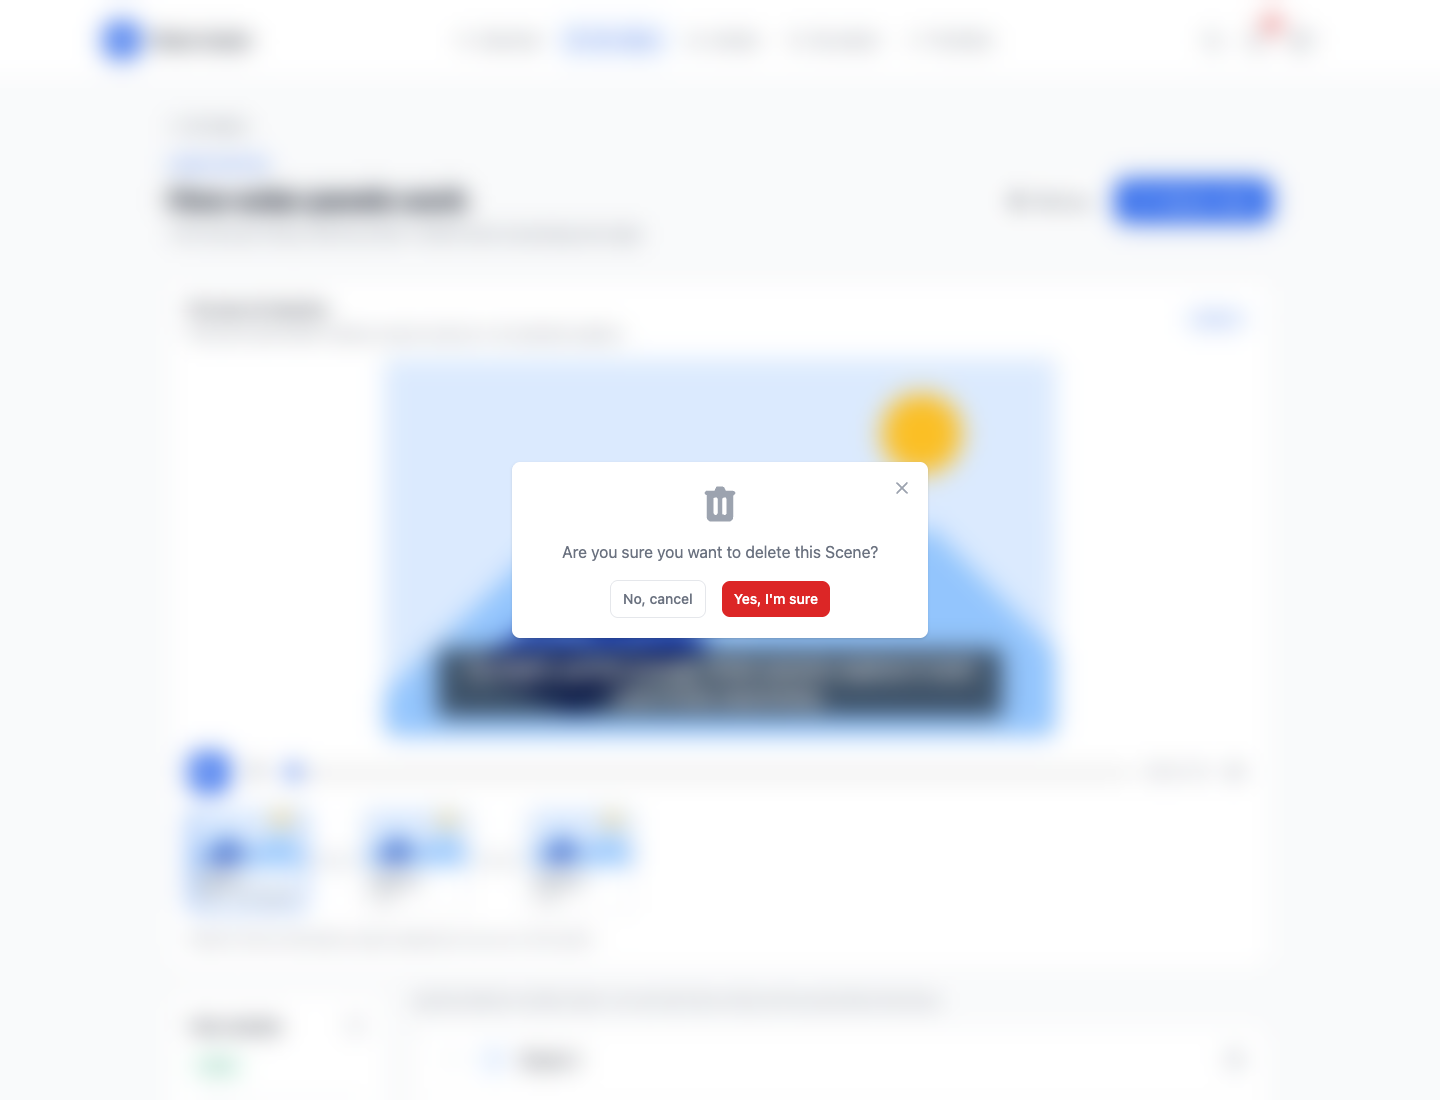
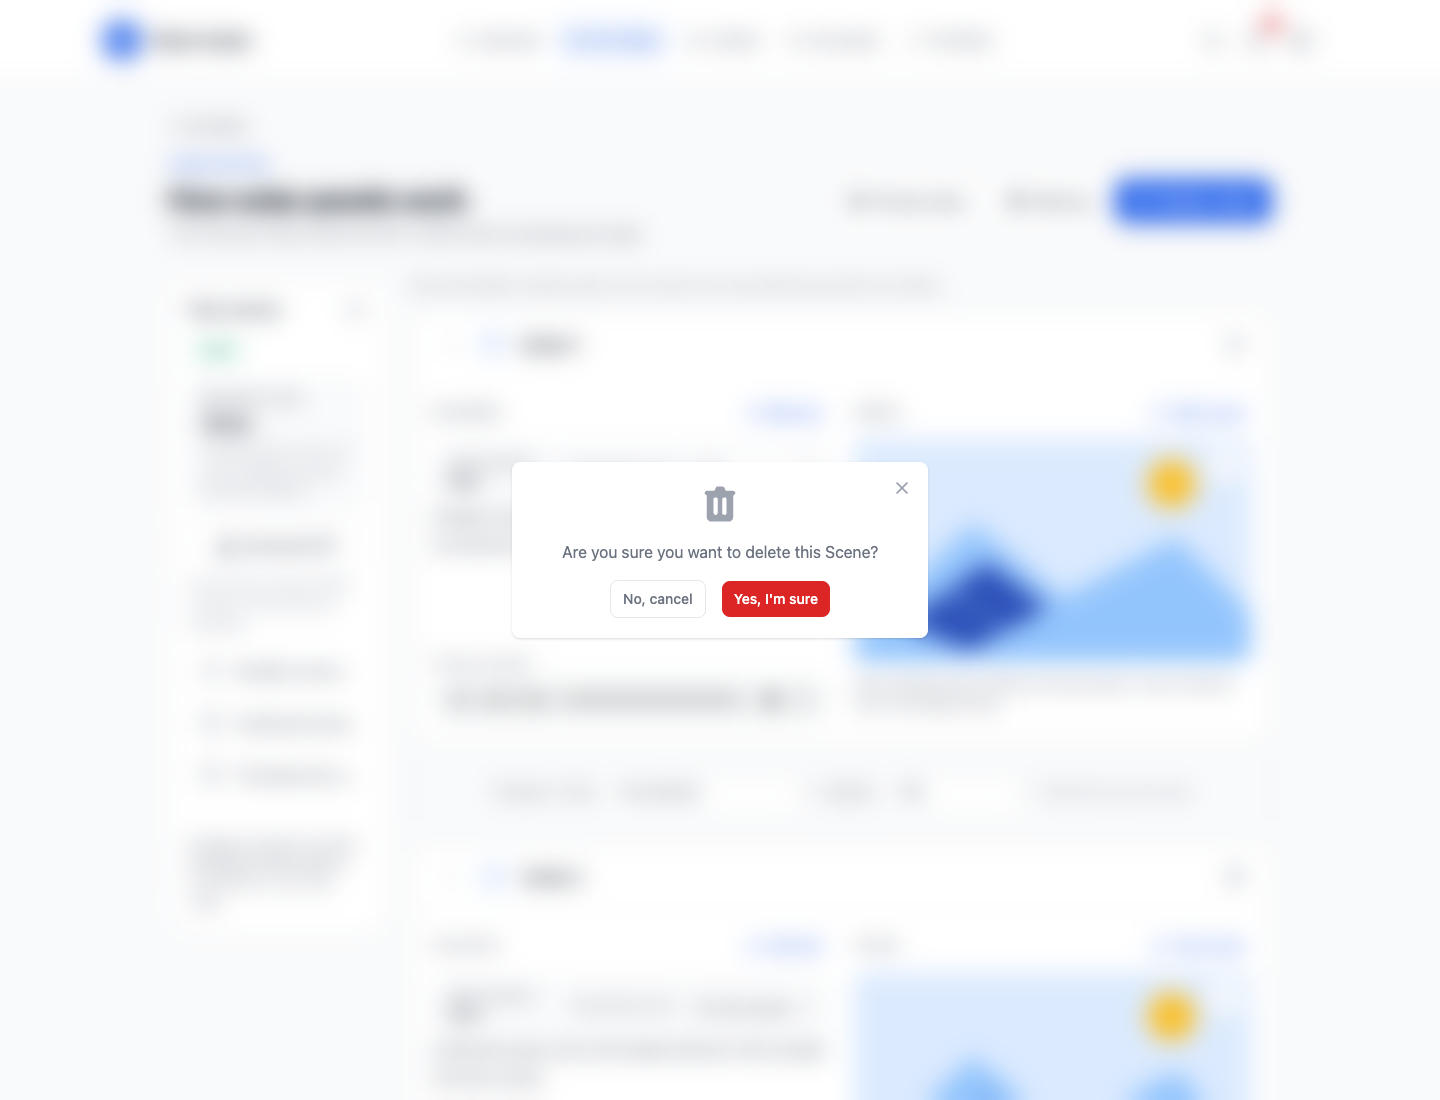
Move video preview into a focused modal

diff --git a/frontend/src/components/VideoPreview.js b/frontend/src/components/VideoPreview.js
@@ -1,5 +1,7 @@
 import React, { useCallback, useEffect, useId, useRef, useState } from "react";
 import { FaPause, FaPlay, FaUndo, FaVolumeMute, FaVolumeUp } from "react-icons/fa";
+import { Dialog, DialogBackdrop, DialogPanel, DialogTitle, Description } from "@headlessui/react";
+import { HiOutlineXMark } from "react-icons/hi2";
 import { getVideoPreview } from "../api/apiService";
 import { API_HOST } from "../endpoints";
 
@@ -49,7 +51,27 @@ function Visual({ segment, time, playing, muted, onFailure, onBlocked, opacity =
   </div>;
 }
 
-export function VideoPreview({ video, disabled = false, paused = false, pauseSignal = 0 }) {
+export function VideoPreviewModal({ open, onClose, video, disabled = false }) {
+  if (!open || !video) return null;
+  return <Dialog open={open} onClose={onClose} className="relative z-50">
+    <DialogBackdrop className="fixed inset-0 bg-gray-950/70 backdrop-blur-sm" />
+    <div className="fixed inset-0 flex items-center justify-center p-3 sm:p-6">
+      <DialogPanel className="flex max-h-[calc(100dvh-1.5rem)] w-full max-w-4xl flex-col overflow-hidden rounded-2xl border border-gray-200 bg-white shadow-2xl dark:border-gray-700 dark:bg-gray-900 sm:max-h-[calc(100dvh-3rem)]">
+        <header className="flex shrink-0 items-start justify-between gap-4 border-b border-gray-100 px-4 py-4 dark:border-gray-800 sm:px-6">
+          <div className="min-w-0">
+            <DialogTitle className="text-lg font-semibold text-gray-900 dark:text-white">Preview video</DialogTitle>
+            <p className="mt-1 truncate text-sm text-gray-700 dark:text-gray-300">{video.title}</p>
+            <Description className="mt-1 text-xs text-gray-500 dark:text-gray-400">Watch your saved edits before rendering.</Description>
+          </div>
+          <button type="button" data-autofocus aria-label="Close preview" onClick={onClose} className="shrink-0 rounded-full p-2 text-gray-500 hover:bg-gray-100 focus:outline-none focus:ring-2 focus:ring-blue-500 dark:hover:bg-gray-800"><HiOutlineXMark aria-hidden="true" className="h-5 w-5" /></button>
+        </header>
+        <div className="min-h-0 overflow-y-auto p-4 sm:p-6"><VideoPreview video={video} disabled={disabled} /></div>
+      </DialogPanel>
+    </div>
+  </Dialog>;
+}
+
+function VideoPreview({ video, disabled = false }) {
   const [manifest, setManifest] = useState(null);
   const [loading, setLoading] = useState(false);
   const [error, setError] = useState("");
@@ -102,13 +124,9 @@ export function VideoPreview({ video, disabled = false, paused = false, pauseSig
   }, [playing, manifest, buffering]);
   useEffect(() => {
     const pauseHidden = () => { if (document.hidden) setPlaying(false); };
-    const pauseDialog = event => { if (event.target.closest?.('[role="dialog"]')) setPlaying(false); };
     document.addEventListener("visibilitychange", pauseHidden);
-    document.addEventListener("focusin", pauseDialog);
-    return () => { document.removeEventListener("visibilitychange", pauseHidden); document.removeEventListener("focusin", pauseDialog); };
+    return () => document.removeEventListener("visibilitychange", pauseHidden);
   }, []);
-  useEffect(() => { if (paused) setPlaying(false); }, [paused]);
-  useEffect(() => { setPlaying(false); }, [pauseSignal]);
   const seek = position => {
     const next = Math.max(0, Math.min(manifest?.duration || 0, position));
     anchor.current = { position: next, wall: performance.now() };
@@ -130,14 +148,21 @@ export function VideoPreview({ video, disabled = false, paused = false, pauseSig
   const activeId = active?.id;
   useEffect(() => {
     if (!activeButton.current || !timeline.current) return;
-    const button = activeButton.current.getBoundingClientRect();
-    const strip = timeline.current.getBoundingClientRect();
-    if (button.left < strip.left) timeline.current.scrollLeft += button.left - strip.left;
-    else if (button.right > strip.right) timeline.current.scrollLeft += button.right - strip.right;
+    const keepActiveVisible = () => {
+      if (!activeButton.current || !timeline.current) return;
+      const button = activeButton.current.getBoundingClientRect();
+      const strip = timeline.current.getBoundingClientRect();
+      if (button.left < strip.left) timeline.current.scrollLeft += button.left - strip.left;
+      else if (button.right > strip.right) timeline.current.scrollLeft += button.right - strip.right;
+    };
+    keepActiveVisible();
+    const observer = new ResizeObserver(keepActiveVisible);
+    observer.observe(timeline.current);
+    return () => observer.disconnect();
   }, [activeId]);
 
-  return <section aria-labelledby="preview-heading" className="mb-6 min-w-0 rounded-2xl border border-gray-200 bg-white p-4 sm:p-5 dark:border-gray-700 dark:bg-gray-800">
-    <div className="mb-4 flex flex-wrap items-center justify-between gap-2"><div><h2 id="preview-heading" className="font-semibold text-gray-900 dark:text-white">Preview & timeline</h2><p className="mt-1 text-xs text-gray-500 dark:text-gray-400">Play your current edit or choose a scene to jump to it. No rendering required.</p></div>{active && <span aria-live="polite" className="rounded-full bg-blue-50 px-3 py-1 text-xs font-medium text-blue-700 dark:bg-blue-900/30 dark:text-blue-300">{active.label}{local >= active.base_duration && active.pause > 0 ? " · Pause" : ""}</span>}</div>
+  return <section aria-label="Preview player" className="min-w-0">
+    {active && <div className="mb-3 flex justify-end"><span aria-live="polite" className="rounded-full bg-blue-50 px-3 py-1 text-xs font-medium text-blue-700 dark:bg-blue-900/30 dark:text-blue-300">{active.label}{local >= active.base_duration && active.pause > 0 ? " · Pause" : ""}</span></div>}
     {!allowed || disabled ? <p role="status" className="rounded-xl bg-gray-50 p-4 text-sm text-gray-500 dark:bg-gray-900/40 dark:text-gray-400">{disabled ? "Preview updates once your changes are saved." : "Preview becomes available when scene processing finishes."}</p> : loading ? <p role="status" className="py-8 text-center text-sm text-gray-500">Loading preview…</p> : <>
       {error && <div role="alert" className="mb-3 flex flex-wrap items-center gap-3 rounded-xl bg-amber-50 p-3 text-sm text-amber-800 dark:bg-amber-900/20 dark:text-amber-200"><span>{error}</span><button type="button" onClick={() => setRetry(value => value + 1)} className="font-semibold underline">Reload preview</button></div>}
       {manifest && <>
@@ -156,7 +181,9 @@ export function VideoPreview({ video, disabled = false, paused = false, pauseSig
           <span className="shrink-0 text-xs tabular-nums text-gray-500 dark:text-gray-300">{clock(time)} / {clock(manifest.duration)}</span>
           <button type="button" aria-label={muted ? "Unmute preview" : "Mute preview"} onClick={() => setMuted(value => !value)} className="rounded-lg p-2 text-gray-500 hover:bg-gray-100 dark:text-gray-300 dark:hover:bg-gray-700">{muted ? <FaVolumeMute /> : <FaVolumeUp />}</button>
         </div>
-        <nav ref={timeline} aria-label="Preview timeline" className="mt-4 flex gap-2 overflow-x-auto pb-2">
+        <h2 className="mt-5 text-sm font-semibold text-gray-900 dark:text-white">Scene timeline</h2>
+        <p className="mt-1 text-xs text-gray-500 dark:text-gray-400">Choose a scene to jump to it.</p>
+        <nav ref={timeline} aria-label="Preview timeline" className="mt-3 flex gap-2 overflow-x-auto pb-2">
           {segments.map((segment, segmentIndex) => <React.Fragment key={segment.id}>
             <button type="button" ref={segment.id === activeId ? activeButton : null} aria-label={`Preview ${segment.label}`} aria-current={segment.id === activeId ? "true" : undefined} onClick={() => seek(segment.start)} style={{ width: Math.max(100, Math.min(240, segment.duration * 18)) }} className={`relative shrink-0 overflow-hidden rounded-xl border-2 text-left focus-visible:outline focus-visible:outline-2 focus-visible:outline-blue-500 ${segment.id === activeId ? "border-blue-500 bg-blue-50 dark:bg-blue-900/20" : "border-gray-200 dark:border-gray-700"}`}>
               <div className="relative h-14 overflow-hidden bg-gray-100 dark:bg-gray-900">{segment.visual && (segment.visual_type === "video" ? <video src={mediaUrl(segment.visual)} muted playsInline preload="metadata" className="h-full w-full object-cover" /> : <img src={mediaUrl(segment.visual)} alt="" className="h-full w-full object-cover" />)}{!segment.visual && <span className="flex h-full items-center justify-center text-xs text-gray-400">No visual</span>}</div>
@@ -168,7 +195,7 @@ export function VideoPreview({ video, disabled = false, paused = false, pauseSig
         </nav>
         {buffering && <p role="status" className="mt-2 text-xs text-gray-500">Buffering preview…</p>}
         {mediaError && <p role="status" className="mt-2 text-xs text-amber-700 dark:text-amber-300">Some media could not load. Check the scene files or reload the preview.</p>}
-        <p className="mt-2 text-xs leading-relaxed text-gray-500 dark:text-gray-400">Caption timing is estimated; caption appearance may vary in the render.{manifest.render_only?.length > 0 ? ` Render to include ${manifest.render_only.join(", ")}.` : ""}</p>
+        <details className="mt-3 text-xs leading-relaxed text-gray-500 dark:text-gray-400"><summary className="cursor-pointer font-medium">About this preview</summary><p className="mt-2">No rendering or generation credits required. Caption timing is estimated; caption appearance may vary in the render.{manifest.render_only?.length > 0 ? ` Render to include ${manifest.render_only.join(", ")}.` : ""}</p></details>
       </>}
     </>}
   </section>;

diff --git a/frontend/src/pages/VideoPage.js b/frontend/src/pages/VideoPage.js
@@ -12,9 +12,9 @@ import { GiProcessor } from "react-icons/gi";
 import { RenderModal } from "../components/RenderModal";
 import { StoryboardModal } from "../components/StoryboardModal";
 import { ResumeModal } from "../components/ResumeModal";
-import { FaRedo, FaDownload } from "react-icons/fa";
+import { FaRedo, FaDownload, FaPlay } from "react-icons/fa";
 import { SceneCreationModal } from "../components/CreateSceneModal";
-import { VideoPreview } from "../components/VideoPreview";
+import { VideoPreviewModal } from "../components/VideoPreview";
 
 export const Video = () => {
   const { videoId } = useParams();
@@ -27,8 +27,7 @@ export const Video = () => {
   const [showAddSceneModal, setShowAddSceneModal] = useState(false);
   const [showStoryboard, setShowStoryboard] = useState(false);
   const [showResumeModal, setShowResumeModal] = useState(false);
-  const [previewPause, setPreviewPause] = useState(0);
-  const pausePreview = useCallback(() => setPreviewPause(value => value + 1), []);
+  const [showPreview, setShowPreview] = useState(false);
   const [downloadingSubtitles, setDownloadingSubtitles] = useState(false);
 
   const [pendingSceneChange, setPendingSceneChange] = useState(null);
@@ -127,10 +126,13 @@ export const Video = () => {
   const canDownloadSubtitles = ["READY", "COMPLETED", "FAILED"].includes(videoInfo?.status)
     && !sceneChangePending && !renderPending && videoInfo?.scenes?.some(scene => scene.narration_status === "available");
   const isResumable = videoInfo?.status === "FAILED";
+  const canPreview = ["READY", "COMPLETED", "FAILED"].includes(videoInfo?.status)
+    && !sceneChangePending && !renderPending && videoInfo?.scenes?.length > 0;
   const missingNarration = videoInfo?.scenes?.filter(scene => scene.narration_status === "missing") || [];
 
   return (
     <>
+      <VideoPreviewModal open={showPreview} onClose={() => setShowPreview(false)} video={videoInfo} disabled={sceneChangePending || renderPending} />
       <StoryboardModal open={showStoryboard} video={videoInfo} onClose={() => setShowStoryboard(false)} onApproved={() => { setShowStoryboard(false); onSceneQueued(); }} />
       <VideoConfigModal
         showModal={showConfigModal}
@@ -183,6 +185,7 @@ export const Video = () => {
             <p className="mt-2 text-sm text-gray-500 dark:text-gray-400">Fine-tune your story, scene by scene. Render when everything looks right.</p>
           </div>
           <div className="flex shrink-0 flex-wrap items-center gap-2">
+            <button type="button" disabled={!canPreview} title={canPreview ? "Preview your saved edits" : "Preview is available after processing and saving scenes"} onClick={() => setShowPreview(true)} className="flex items-center gap-2 rounded-xl border border-gray-200 bg-white px-4 py-3 text-sm font-medium text-gray-700 hover:bg-gray-50 disabled:cursor-not-allowed disabled:opacity-40 dark:border-gray-700 dark:bg-gray-800 dark:text-gray-200"><FaPlay aria-hidden="true" className="h-3.5 w-3.5" />Preview video</button>
             <button type="button" disabled={!videoInfo || videoInfo.status === "REVIEW"} aria-label="Video settings" onClick={() => setShowConfigModal(true)} className="flex items-center gap-2 rounded-xl border border-gray-200 bg-white px-4 py-3 text-sm font-medium text-gray-700 hover:bg-gray-50 disabled:opacity-40 dark:border-gray-700 dark:bg-gray-800 dark:text-gray-200"><IoIosSettings className="h-5 w-5" />Settings</button>
             {isResumable && <button type="button" onClick={() => setShowResumeModal(true)} className="flex items-center gap-2 rounded-xl bg-emerald-600 px-4 py-3 text-sm font-semibold text-white hover:bg-emerald-700"><FaRedo />Carry on</button>}
             <button type="button" disabled={!isRenderable} title={isRenderable ? "Render video" : `Cannot render while ${videoInfo?.status || "loading"}`} onClick={() => setShowRenderModal(true)} className="flex items-center gap-2 rounded-xl bg-blue-600 px-5 py-3 text-sm font-semibold text-white shadow-sm hover:bg-blue-700 disabled:cursor-not-allowed disabled:opacity-40"><GiProcessor className="h-5 w-5" />{renderPending ? "Starting render…" : videoInfo?.status === "RENDERING" ? "Rendering…" : "Render video"}</button>
@@ -204,7 +207,6 @@ export const Video = () => {
           <p className="mt-1">Your script and visuals are saved. Retry narration in the scenes below, or render with the available audio.</p>
           <div className="mt-3 flex flex-wrap gap-2">{videoInfo.scenes.map((scene, index) => scene.narration_status === "missing" && <a key={scene.id} href={`#scene-${scene.id}`} className="rounded-lg border border-amber-300 px-3 py-1 font-medium hover:bg-amber-100 dark:border-amber-700 dark:hover:bg-amber-900/40">Scene {index + 1}</a>)}</div>
         </div>}
-        {videoInfo && videoInfo.status !== "REVIEW" && <VideoPreview pauseSignal={previewPause} video={videoInfo} disabled={sceneChangePending || renderPending} paused={showConfigModal || showRenderModal || showAddSceneModal || showResumeModal} />}
         <div className="grid items-start gap-6 lg:grid-cols-[220px_minmax(0,1fr)]">
           <aside className="min-w-0 rounded-2xl border border-gray-200 bg-white p-5 lg:sticky lg:top-6 dark:border-gray-700 dark:bg-gray-800">
             <div className="flex items-center justify-between gap-2"><h2 className="font-semibold text-gray-900 dark:text-white">Your scenes</h2><span className="rounded-lg bg-gray-100 px-2 py-1 text-xs text-gray-500 dark:bg-gray-700 dark:text-gray-300">{videoInfo?.scenes?.length || 0}</span></div>
@@ -218,7 +220,7 @@ export const Video = () => {
             <p className="mt-5 border-t border-gray-100 pt-4 text-xs leading-relaxed text-gray-500 dark:border-gray-700 dark:text-gray-400">Changes to scenes are saved individually. Render again to include them in your final video.</p>
           </aside>
           <section aria-label="Scenes" className="min-w-0 space-y-5">
-            <ReorderableScenes onEditing={pausePreview} scenes={videoInfo?.scenes || []} disabled={sceneChangePending || renderPending || !["READY", "COMPLETED", "FAILED"].includes(videoInfo?.status)} saving={savingOrder} onReorder={onReorder} onTransition={onTransition} pendingTransition={pendingTransition} onTiming={onTiming} pendingTiming={pendingTiming} transitionSettings={videoInfo?.settings || {}} setUpdated={setUpdated} videoFormat={videoInfo?.settings?.video_format || "LANDSCAPE"} />
+            <ReorderableScenes scenes={videoInfo?.scenes || []} disabled={sceneChangePending || renderPending || !["READY", "COMPLETED", "FAILED"].includes(videoInfo?.status)} saving={savingOrder} onReorder={onReorder} onTransition={onTransition} pendingTransition={pendingTransition} onTiming={onTiming} pendingTiming={pendingTiming} transitionSettings={videoInfo?.settings || {}} setUpdated={setUpdated} videoFormat={videoInfo?.settings?.video_format || "LANDSCAPE"} />
             {videoInfo && !videoInfo.scenes?.length && <div className="rounded-2xl border border-dashed border-gray-300 p-10 text-center dark:border-gray-600"><h2 className="font-semibold text-gray-900 dark:text-white">{videoInfo.status === "REVIEW" ? "Your prompts are ready" : "Your story starts here"}</h2><p className="mt-2 text-sm text-gray-500">{videoInfo.status === "REVIEW" ? "Review your storyboard and press Proceed to create these scenes." : "Add a scene to start building your video."}</p></div>}
             <button type="button" disabled={!videoInfo || sceneChangePending || renderPending || processing || videoInfo.status === "REVIEW"} onClick={() => setShowAddSceneModal(true)} className="flex w-full items-center justify-center gap-2 rounded-2xl border-2 border-dashed border-gray-200 py-5 text-sm font-semibold text-gray-500 transition hover:border-blue-400 hover:bg-blue-50 hover:text-blue-600 disabled:opacity-40 dark:border-gray-700 dark:text-gray-400 dark:hover:bg-gray-800"><FaPlus />{processing ? "Processing…" : "Add scene"}</button>
           </section>

diff --git a/frontend/src/components/ReorderableScenes.js b/frontend/src/components/ReorderableScenes.js
@@ -3,7 +3,7 @@ import { RiDraggable } from "react-icons/ri";
 import { SceneTransition } from "./SceneTransition";
 import { Scene } from "./Scene";
 
-export function ReorderableScenes({ scenes, disabled, saving, onReorder, setUpdated, videoFormat, onTransition, pendingTransition, transitionSettings, onTiming, pendingTiming, onEditing }) {
+export function ReorderableScenes({ scenes, disabled, saving, onReorder, setUpdated, videoFormat, onTransition, pendingTransition, transitionSettings, onTiming, pendingTiming }) {
   const [drag, setDrag] = useState(null);
   const dragRef = useRef(null);
   const listRef = useRef(null);
@@ -64,7 +64,7 @@ export function ReorderableScenes({ scenes, disabled, saving, onReorder, setUpda
     {scenes.map((scene, index) => <div key={scene.id} data-scene-order={index} className="relative mb-5">
       {drag?.target === index && drag.target !== drag.from && drag.target !== drag.from + 1 && <div className="pointer-events-none absolute -top-3 left-0 right-0 h-1 rounded-full bg-blue-500" />}
       <div className={drag?.from === index ? "opacity-40" : ""}>
-        <Scene onEditing={onEditing} scene={scene} index={index} onTiming={onTiming} timingDisabled={disabled} timingSaving={pendingTiming === scene.id} setUpdated={setUpdated} video_format={videoFormat} reorderHandle={scenes.length > 1 && <button type="button" disabled={disabled} aria-label={`Move scene ${index + 1}`} aria-describedby="scene-reorder-help" className="touch-none rounded-lg p-2 text-gray-400 cursor-grab hover:bg-blue-50 hover:text-blue-600 active:cursor-grabbing focus-visible:ring-2 focus-visible:ring-blue-500 disabled:cursor-default disabled:opacity-30 dark:hover:bg-gray-700" onPointerDown={event => {
+        <Scene scene={scene} index={index} onTiming={onTiming} timingDisabled={disabled} timingSaving={pendingTiming === scene.id} setUpdated={setUpdated} video_format={videoFormat} reorderHandle={scenes.length > 1 && <button type="button" disabled={disabled} aria-label={`Move scene ${index + 1}`} aria-describedby="scene-reorder-help" className="touch-none rounded-lg p-2 text-gray-400 cursor-grab hover:bg-blue-50 hover:text-blue-600 active:cursor-grabbing focus-visible:ring-2 focus-visible:ring-blue-500 disabled:cursor-default disabled:opacity-30 dark:hover:bg-gray-700" onPointerDown={event => {
           if (disabled || event.button !== 0) return;
           event.preventDefault();
           event.currentTarget.focus();

diff --git a/frontend/src/components/Scene.js b/frontend/src/components/Scene.js
@@ -1,4 +1,4 @@
-import React, { useEffect, useState } from "react";
+import React, { useState } from "react";
 import { Menu, MenuButton, MenuItems, MenuItem } from "@headlessui/react";
 import { FaPencilAlt } from "react-icons/fa";
 import { IoTrashBinSharp } from "react-icons/io5";
@@ -17,16 +17,12 @@ const formatFrameClasses = {
   SQUARE: "mx-auto aspect-square w-full max-w-[420px]",
 };
 
-export const Scene = ({ scene, setUpdated, video_format = "LANDSCAPE", index = 0, reorderHandle, onTiming, timingDisabled, timingSaving, onEditing }) => {
+export const Scene = ({ scene, setUpdated, video_format = "LANDSCAPE", index = 0, reorderHandle, onTiming, timingDisabled, timingSaving }) => {
   const [showDeleteModal, setShowDeleteModal] = useState(false);
   const [showDeleteSceneModal, setShowDeleteSceneModal] = useState(false);
 
   const [showEditModal, setShowEditModal] = useState(false);
   const [showEditImageModal, setShowEditImageModal] = useState(false);
-
-  useEffect(() => {
-    if (showDeleteModal || showDeleteSceneModal || showEditModal || showEditImageModal) onEditing?.();
-  }, [showDeleteModal, showDeleteSceneModal, showEditModal, showEditImageModal, onEditing]);
 
   const MEDIA_URL = API_HOST;
   const [retryingNarration, setRetryingNarration] = useState(false);

diff --git a/README.md b/README.md
@@ -601,11 +601,12 @@ narration line and its audio, the image behind it, and the order they play in. S
 can be added, edited, regenerated or removed one at a time, so a single bad shot does
 not mean generating the whole thing again.
 
-![Editing a generated video with its preview timeline and scene controls](docs/screenshots/video-edit.png)
+![Editing a generated video with scene controls and the preview button](docs/screenshots/video-edit.png)
 
 ### Preview and timeline
 
-**Preview & timeline** plays the current edit without generating a video file or
+Choose **Preview video** beside **Settings** and **Render video** to open a dedicated
+player with a scene timeline. It plays the current edit without generating a video file or
 spending generation credits. Choose a scene thumbnail to jump to its start, drag the
 playhead to seek, or use **Play**, **Pause**, **Restart** and **Mute**. Intro and outro
 clips appear in playback order alongside the scenes. The active scene is highlighted,
@@ -615,10 +616,11 @@ The preview follows saved scene order, durations, pauses and transition settings
 Narration and retained clip audio play together; pauses hold the final frame in
 silence. Captions appear when subtitles are enabled, using the same estimated phrase
 cues as rendering and SRT export. Portrait, landscape and square framing use the
-selected output format. Playback waits for buffering and pauses when you leave the tab
-or open an editing dialog.
+selected output format. Playback waits for buffering and pauses when you leave the tab.
+Closing the preview stops all media and returns you to editing. Use the close button,
+press Escape, or click outside the modal. Opening it again starts from the beginning.
 
-Saving playback changes reloads the preview, ready to play from the beginning. Preview
+The preview loads saved changes when you open it. Preview
 is unavailable while generation or rendering is running. Missing visuals show a
 placeholder; media failures display a notice and can be retried by reloading the preview.
 
